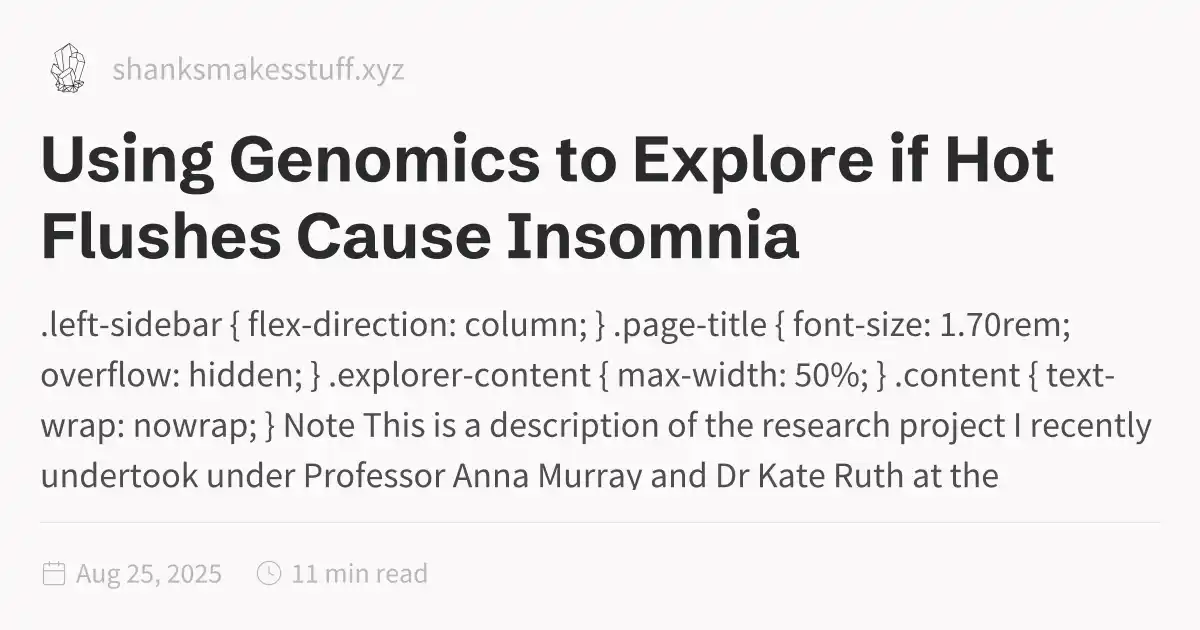
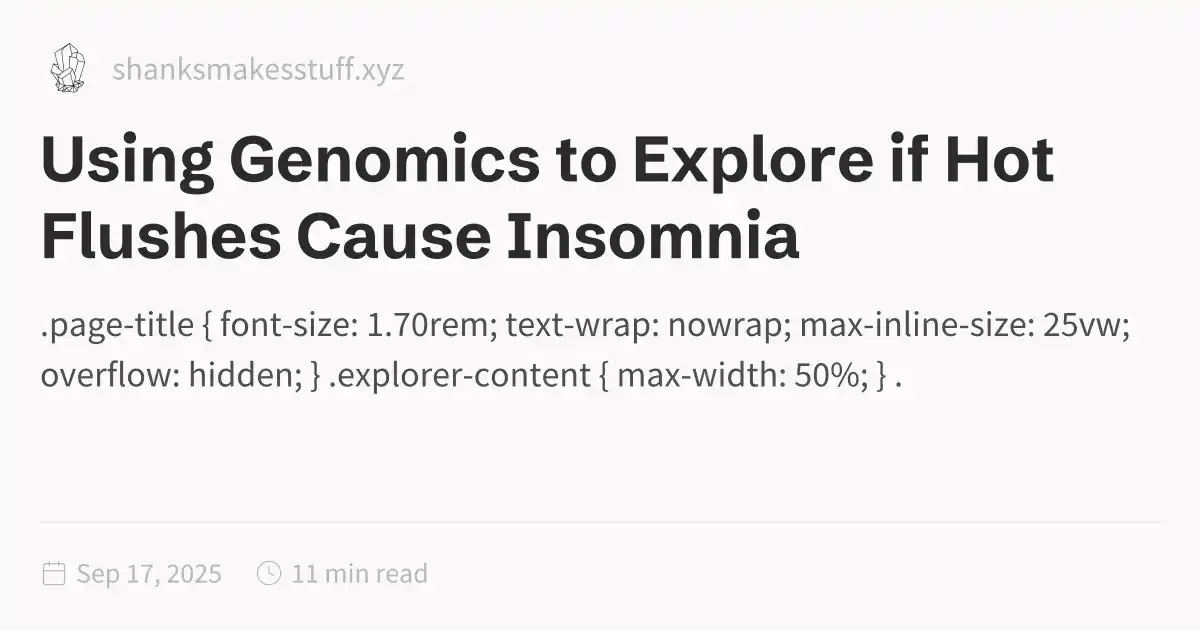
2025-09-18_000

diff --git a/Blog/Using-Genomics-to-Explore-if-Hot-Flushes-Cause-Insomnia.html b/Blog/Using-Genomics-to-Explore-if-Hot-Flushes-Cause-Insomnia.html
@@ -1,5 +1,5 @@
 <!DOCTYPE html>
-<html lang="en"><head><title>Using Genomics to Explore if Hot Flushes Cause Insomnia</title><meta charset="utf-8"/><link rel="preconnect" href="https://fonts.googleapis.com"/><link rel="preconnect" href="https://fonts.gstatic.com"/><link rel="stylesheet" href="https://fonts.googleapis.com/css2?family=Schibsted Grotesk:wght@400;700&amp;family=Source Sans Pro:ital,wght@0,400;0,600;1,400;1,600&amp;family=IBM Plex Mono:wght@400;600&amp;display=swap"/><link rel="preconnect" href="https://cdnjs.cloudflare.com" crossorigin="anonymous"/><meta name="viewport" content="width=device-width, initial-scale=1.0"/><meta name="og:site_name" content="ShanksMakesStuff"/><meta property="og:title" content="Using Genomics to Explore if Hot Flushes Cause Insomnia"/><meta property="og:type" content="website"/><meta name="twitter:card" content="summary_large_image"/><meta name="twitter:title" content="Using Genomics to Explore if Hot Flushes Cause Insomnia"/><meta name="twitter:description" content=".left-sidebar { flex-direction: column; } .page-title { font-size: 1.70rem; overflow: hidden; } .explorer-content { max-width: 50%; } .content { text-wrap: nowrap; } Note This is a description of the research project I recently undertook under Professor Anna Murray and Dr Kate Ruth at the Universit..."/><meta property="og:description" content=".left-sidebar { flex-direction: column; } .page-title { font-size: 1.70rem; overflow: hidden; } .explorer-content { max-width: 50%; } .content { text-wrap: nowrap; } Note This is a description of the research project I recently undertook under Professor Anna Murray and Dr Kate Ruth at the Universit..."/><meta property="og:image:alt" content=".left-sidebar { flex-direction: column; } .page-title { font-size: 1.70rem; overflow: hidden; } .explorer-content { max-width: 50%; } .content { text-wrap: nowrap; } Note This is a description of the research project I recently undertook under Professor Anna Murray and Dr Kate Ruth at the Universit..."/><meta property="twitter:domain" content="shanksmakesstuff.xyz"/><meta property="og:url" content="https://shanksmakesstuff.xyz/Blog/Using-Genomics-to-Explore-if-Hot-Flushes-Cause-Insomnia"/><meta property="twitter:url" content="https://shanksmakesstuff.xyz/Blog/Using-Genomics-to-Explore-if-Hot-Flushes-Cause-Insomnia"/><link rel="icon" href="../static/icon.png"/><meta name="description" content=".left-sidebar { flex-direction: column; } .page-title { font-size: 1.70rem; overflow: hidden; } .explorer-content { max-width: 50%; } .content { text-wrap: nowrap; } Note This is a description of the research project I recently undertook under Professor Anna Murray and Dr Kate Ruth at the Universit..."/><meta name="generator" content="Quartz"/><link href="../index.css" rel="stylesheet" type="text/css" spa-preserve/><style>.expand-button {
+<html lang="en"><head><title>Using Genomics to Explore if Hot Flushes Cause Insomnia</title><meta charset="utf-8"/><link rel="preconnect" href="https://fonts.googleapis.com"/><link rel="preconnect" href="https://fonts.gstatic.com"/><link rel="stylesheet" href="https://fonts.googleapis.com/css2?family=Schibsted Grotesk:wght@400;700&amp;family=Source Sans Pro:ital,wght@0,400;0,600;1,400;1,600&amp;family=IBM Plex Mono:wght@400;600&amp;display=swap"/><link rel="preconnect" href="https://cdnjs.cloudflare.com" crossorigin="anonymous"/><meta name="viewport" content="width=device-width, initial-scale=1.0"/><meta name="og:site_name" content="ShanksMakesStuff"/><meta property="og:title" content="Using Genomics to Explore if Hot Flushes Cause Insomnia"/><meta property="og:type" content="website"/><meta name="twitter:card" content="summary_large_image"/><meta name="twitter:title" content="Using Genomics to Explore if Hot Flushes Cause Insomnia"/><meta name="twitter:description" content=".page-title { font-size: 1.70rem; text-wrap: nowrap; max-inline-size: 25vw; overflow: hidden; } .explorer-content { max-width: 50%; } ."/><meta property="og:description" content=".page-title { font-size: 1.70rem; text-wrap: nowrap; max-inline-size: 25vw; overflow: hidden; } .explorer-content { max-width: 50%; } ."/><meta property="og:image:alt" content=".page-title { font-size: 1.70rem; text-wrap: nowrap; max-inline-size: 25vw; overflow: hidden; } .explorer-content { max-width: 50%; } ."/><meta property="twitter:domain" content="shanksmakesstuff.xyz"/><meta property="og:url" content="https://shanksmakesstuff.xyz/Blog/Using-Genomics-to-Explore-if-Hot-Flushes-Cause-Insomnia"/><meta property="twitter:url" content="https://shanksmakesstuff.xyz/Blog/Using-Genomics-to-Explore-if-Hot-Flushes-Cause-Insomnia"/><link rel="icon" href="../static/icon.png"/><meta name="description" content=".page-title { font-size: 1.70rem; text-wrap: nowrap; max-inline-size: 25vw; overflow: hidden; } .explorer-content { max-width: 50%; } ."/><meta name="generator" content="Quartz"/><link href="../index.css" rel="stylesheet" type="text/css" spa-preserve/><style>.expand-button {
   position: absolute;
   display: flex;
   float: right;
@@ -116,17 +116,19 @@ pre:hover > .expand-button {
   padding: 0 12px;
   font-size: 14px;
 }
[2 lines of base64/hex data omitted]
 	<style> 
-		.left-sidebar { 
-			flex-direction: column; 
-		}
 		.page-title { 
 			font-size: 1.70rem; 
+			text-wrap: nowrap; 
+			max-inline-size: 25vw; 
 			overflow: hidden; 
 		}
 		.explorer-content { 
 			max-width: 50%; 
+		}
+		. custom-div { 
+			font-size: 1.59rem; 
 		}
 		.content { 
 			text-wrap: nowrap; 

diff --git a/index.html b/index.html
@@ -1,5 +1,5 @@
 <!DOCTYPE html>
-<html lang="en"><head><title>index</title><meta charset="utf-8"/><link rel="preconnect" href="https://fonts.googleapis.com"/><link rel="preconnect" href="https://fonts.gstatic.com"/><link rel="stylesheet" href="https://fonts.googleapis.com/css2?family=Schibsted Grotesk:wght@400;700&amp;family=Source Sans Pro:ital,wght@0,400;0,600;1,400;1,600&amp;family=IBM Plex Mono:wght@400;600&amp;display=swap"/><link rel="preconnect" href="https://cdnjs.cloudflare.com" crossorigin="anonymous"/><meta name="viewport" content="width=device-width, initial-scale=1.0"/><meta name="og:site_name" content="ShanksMakesStuff"/><meta property="og:title" content="index"/><meta property="og:type" content="website"/><meta name="twitter:card" content="summary_large_image"/><meta name="twitter:title" content="index"/><meta name="twitter:description" content="window.location.href = `www.shanksmakesstuff.xyz/Hey!.html` .page-title { font-size: 1.70rem; } ."/><meta property="og:description" content="window.location.href = `www.shanksmakesstuff.xyz/Hey!.html` .page-title { font-size: 1.70rem; } ."/><meta property="og:image:alt" content="window.location.href = `www.shanksmakesstuff.xyz/Hey!.html` .page-title { font-size: 1.70rem; } ."/><meta property="twitter:domain" content="shanksmakesstuff.xyz"/><meta property="og:url" content="https://shanksmakesstuff.xyz/index"/><meta property="twitter:url" content="https://shanksmakesstuff.xyz/index"/><link rel="icon" href="./static/icon.png"/><meta name="description" content="window.location.href = `www.shanksmakesstuff.xyz/Hey!.html` .page-title { font-size: 1.70rem; } ."/><meta name="generator" content="Quartz"/><link href="./index.css" rel="stylesheet" type="text/css" spa-preserve/><style>.expand-button {
+<html lang="en"><head><title>index</title><meta charset="utf-8"/><link rel="preconnect" href="https://fonts.googleapis.com"/><link rel="preconnect" href="https://fonts.gstatic.com"/><link rel="stylesheet" href="https://fonts.googleapis.com/css2?family=Schibsted Grotesk:wght@400;700&amp;family=Source Sans Pro:ital,wght@0,400;0,600;1,400;1,600&amp;family=IBM Plex Mono:wght@400;600&amp;display=swap"/><link rel="preconnect" href="https://cdnjs.cloudflare.com" crossorigin="anonymous"/><meta name="viewport" content="width=device-width, initial-scale=1.0"/><meta name="og:site_name" content="ShanksMakesStuff"/><meta property="og:title" content="index"/><meta property="og:type" content="website"/><meta name="twitter:card" content="summary_large_image"/><meta name="twitter:title" content="index"/><meta name="twitter:description" content="window.location.href = `www.shanksmakesstuff.xyz/Hey!.html` .page-title { font-size: 1.70rem; text-wrap: nowrap; max-inline-size: 25vw; overflow: hidden; } .explorer-content { max-width: 50%; } ."/><meta property="og:description" content="window.location.href = `www.shanksmakesstuff.xyz/Hey!.html` .page-title { font-size: 1.70rem; text-wrap: nowrap; max-inline-size: 25vw; overflow: hidden; } .explorer-content { max-width: 50%; } ."/><meta property="og:image:alt" content="window.location.href = `www.shanksmakesstuff.xyz/Hey!.html` .page-title { font-size: 1.70rem; text-wrap: nowrap; max-inline-size: 25vw; overflow: hidden; } .explorer-content { max-width: 50%; } ."/><meta property="twitter:domain" content="shanksmakesstuff.xyz"/><meta property="og:url" content="https://shanksmakesstuff.xyz/index"/><meta property="twitter:url" content="https://shanksmakesstuff.xyz/index"/><link rel="icon" href="./static/icon.png"/><meta name="description" content="window.location.href = `www.shanksmakesstuff.xyz/Hey!.html` .page-title { font-size: 1.70rem; text-wrap: nowrap; max-inline-size: 25vw; overflow: hidden; } .explorer-content { max-width: 50%; } ."/><meta name="generator" content="Quartz"/><link href="./index.css" rel="stylesheet" type="text/css" spa-preserve/><style>.expand-button {
   position: absolute;
   display: flex;
   float: right;
@@ -116,7 +116,7 @@ pre:hover > .expand-button {
   padding: 0 12px;
   font-size: 14px;
 }
[2 lines of base64/hex data omitted]
 	<script> 
 		window.location.href = `https://www.shanksmakesstuff.xyz/Hey!.html` 
 	</script> 
@@ -125,6 +125,18 @@ pre:hover > .expand-button {
 	<style> 
 		.page-title { 
 			font-size: 1.70rem; 
+			text-wrap: nowrap; 
+			max-inline-size: 25vw; 
+			overflow: hidden; 
+		}
+		.explorer-content { 
+			max-width: 50%; 
+		}
+		. custom-div { 
+			font-size: 1.59rem; 
+		}
+		.content { 
+			text-wrap: nowrap; 
 		}
 	</style> 
 </article><hr/><div class="page-footer"></div></div><div class="right sidebar"></div><footer class><p>Created with <a href="https://quartz.jzhao.xyz/">Quartz v4.5.1</a> © 2025</p><ul><li><a href="https://github.com/jackyzha0/quartz">GitHub</a></li><li><a href="https://discord.gg/cRFFHYye7t">Discord Community</a></li></ul></footer></div></div></body><script type="application/javascript">function n(){let t=this.parentElement;t.classList.toggle("is-collapsed");let e=t.getElementsByClassName("callout-content")[0];if(!e)return;let l=t.classList.contains("is-collapsed");e.style.gridTemplateRows=l?"0fr":"1fr"}function c(){let t=document.getElementsByClassName("callout is-collapsible");for(let e of t){let l=e.getElementsByClassName("callout-title")[0],s=e.getElementsByClassName("callout-content")[0];if(!l||!s)continue;l.addEventListener("click",n),window.addCleanup(()=>l.removeEventListener("click",n));let o=e.classList.contains("is-collapsed");s.style.gridTemplateRows=o?"0fr":"1fr"}}document.addEventListener("nav",c);

diff --git a/Blog/index.html b/Blog/index.html
@@ -116,6 +116,6 @@ pre:hover > .expand-button {
   padding: 0 12px;
   font-size: 14px;
 }
[2 lines of base64/hex data omitted]
 </script><script type="module">function f(i,e){if(!i)return;function r(o){o.target===this&&(o.preventDefault(),o.stopPropagation(),e())}function t(o){o.key.startsWith("Esc")&&(o.preventDefault(),e())}i?.addEventListener("click",r),window.addCleanup(()=>i?.removeEventListener("click",r)),document.addEventListener("keydown",t),window.addCleanup(()=>document.removeEventListener("keydown",t))}function y(i){for(;i.firstChild;)i.removeChild(i.firstChild)}var h=class{constructor(e,r){this.container=e;this.content=r;this.setupEventListeners(),this.setupNavigationControls(),this.resetTransform()}isDragging=!1;startPan={x:0,y:0};currentPan={x:0,y:0};scale=1;MIN_SCALE=.5;MAX_SCALE=3;cleanups=[];setupEventListeners(){let e=this.onMouseDown.bind(this),r=this.onMouseMove.bind(this),t=this.onMouseUp.bind(this),o=this.resetTransform.bind(this);this.container.addEventListener("mousedown",e),document.addEventListener("mousemove",r),document.addEventListener("mouseup",t),window.addEventListener("resize",o),this.cleanups.push(()=>this.container.removeEventListener("mousedown",e),()=>document.removeEventListener("mousemove",r),()=>document.removeEventListener("mouseup",t),()=>window.removeEventListener("resize",o))}cleanup(){for(let e of this.cleanups)e()}setupNavigationControls(){let e=document.createElement("div");e.className="mermaid-controls";let r=this.createButton("+",()=>this.zoom(.1)),t=this.createButton("-",()=>this.zoom(-.1)),o=this.createButton("Reset",()=>this.resetTransform());e.appendChild(t),e.appendChild(o),e.appendChild(r),this.container.appendChild(e)}createButton(e,r){let t=document.createElement("button");return t.textContent=e,t.className="mermaid-control-button",t.addEventListener("click",r),window.addCleanup(()=>t.removeEventListener("click",r)),t}onMouseDown(e){e.button===0&&(this.isDragging=!0,this.startPan={x:e.clientX-this.currentPan.x,y:e.clientY-this.currentPan.y},this.container.style.cursor="grabbing")}onMouseMove(e){this.isDragging&&(e.preventDefault(),this.currentPan={x:e.clientX-this.startPan.x,y:e.clientY-this.startPan.y},this.updateTransform())}onMouseUp(){this.isDragging=!1,this.container.style.cursor="grab"}zoom(e){let r=Math.min(Math.max(this.scale+e,this.MIN_SCALE),this.MAX_SCALE),t=this.content.getBoundingClientRect(),o=t.width/2,n=t.height/2,c=r-this.scale;this.currentPan.x-=o*c,this.currentPan.y-=n*c,this.scale=r,this.updateTransform()}updateTransform(){this.content.style.transform=`translate(${this.currentPan.x}px, ${this.currentPan.y}px) scale(${this.scale})`}resetTransform(){this.scale=1;let e=this.content.querySelector("svg");this.currentPan={x:e.getBoundingClientRect().width/2,y:e.getBoundingClientRect().height/2},this.updateTransform()}},C=["--secondary","--tertiary","--gray","--light","--lightgray","--highlight","--dark","--darkgray","--codeFont"],E;document.addEventListener("nav",async()=>{let e=document.querySelector(".center").querySelectorAll("code.mermaid");if(e.length===0)return;E||=await import("https://cdnjs.cloudflare.com/ajax/libs/mermaid/11.4.0/mermaid.esm.min.mjs");let r=E.default,t=new WeakMap;for(let n of e)t.set(n,n.innerText);async function o(){for(let s of e){s.removeAttribute("data-processed");let a=t.get(s);a&&(s.innerHTML=a)}let n=C.reduce((s,a)=>(s[a]=window.getComputedStyle(document.documentElement).getPropertyValue(a),s),{}),c=document.documentElement.getAttribute("saved-theme")==="dark";r.initialize({startOnLoad:!1,securityLevel:"loose",theme:c?"dark":"base",themeVariables:{fontFamily:n["--codeFont"],primaryColor:n["--light"],primaryTextColor:n["--darkgray"],primaryBorderColor:n["--tertiary"],lineColor:n["--darkgray"],secondaryColor:n["--secondary"],tertiaryColor:n["--tertiary"],clusterBkg:n["--light"],edgeLabelBackground:n["--highlight"]}}),await r.run({nodes:e})}await o(),document.addEventListener("themechange",o),window.addCleanup(()=>document.removeEventListener("themechange",o));for(let n=0;n<e.length;n++){let v=function(){let g=l.querySelector("#mermaid-space"),m=l.querySelector(".mermaid-content");if(!m)return;y(m);let w=c.querySelector("svg").cloneNode(!0);m.appendChild(w),l.classList.add("active"),g.style.cursor="grab",u=new h(g,m)},M=function(){l.classList.remove("active"),u?.cleanup(),u=null},c=e[n],s=c.parentElement,a=s.querySelector(".clipboard-button"),d=s.querySelector(".expand-button"),p=window.getComputedStyle(a),L=a.offsetWidth+parseFloat(p.marginLeft||"0")+parseFloat(p.marginRight||"0");d.style.right=`calc(${L}px + 0.3rem)`,s.prepend(d);let l=s.querySelector("#mermaid-container");if(!l)return;let u=null;d.addEventListener("click",v),f(l,M),window.addCleanup(()=>{u?.cleanup(),d.removeEventListener("click",v)})}});
 </script><script src="https://cdn.jsdelivr.net/npm/katex@0.16.11/dist/contrib/copy-tex.min.js" type="application/javascript"></script><script src="../postscript.js" type="module"></script></html>
